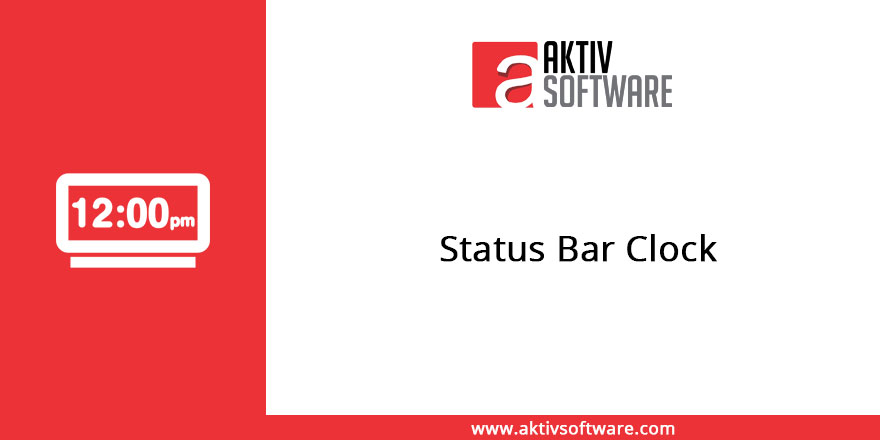
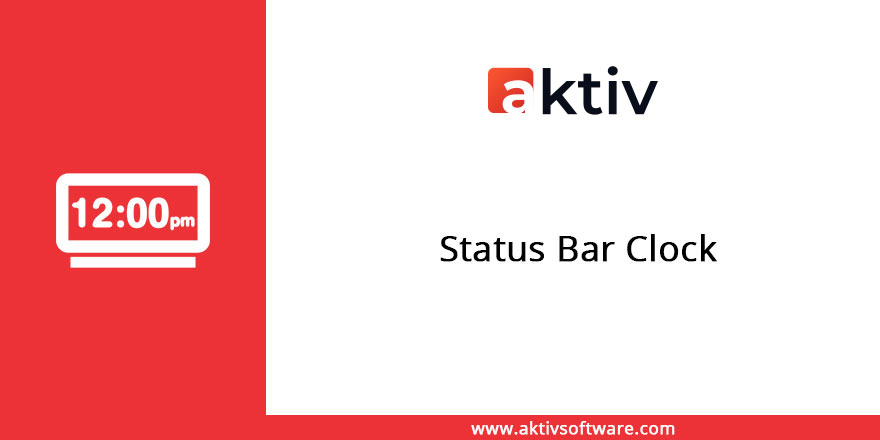
[ADD] change image in 10.0

Changed region(s): [[0.5216, 0.0886, 0.767, 0.2659]]

diff --git a/status_bar_clock/static/description/index.html b/status_bar_clock/static/description/index.html
@@ -46,7 +46,7 @@
     <div class="oe_row oe_spaced">
         <h2 class="oe_slogan">
             <a href="http://aktivsoftware.com/" target="new">
-                <img src="http://aktivsoftware.com/wp-content/uploads/2018/01/logo-1.png"/>
+                <img src="aktiv-logo.png"/>
             </a>
             <br/>
             <a href="mailto:sales@aktivsoftware.com" style="color: #000000 !important;">
